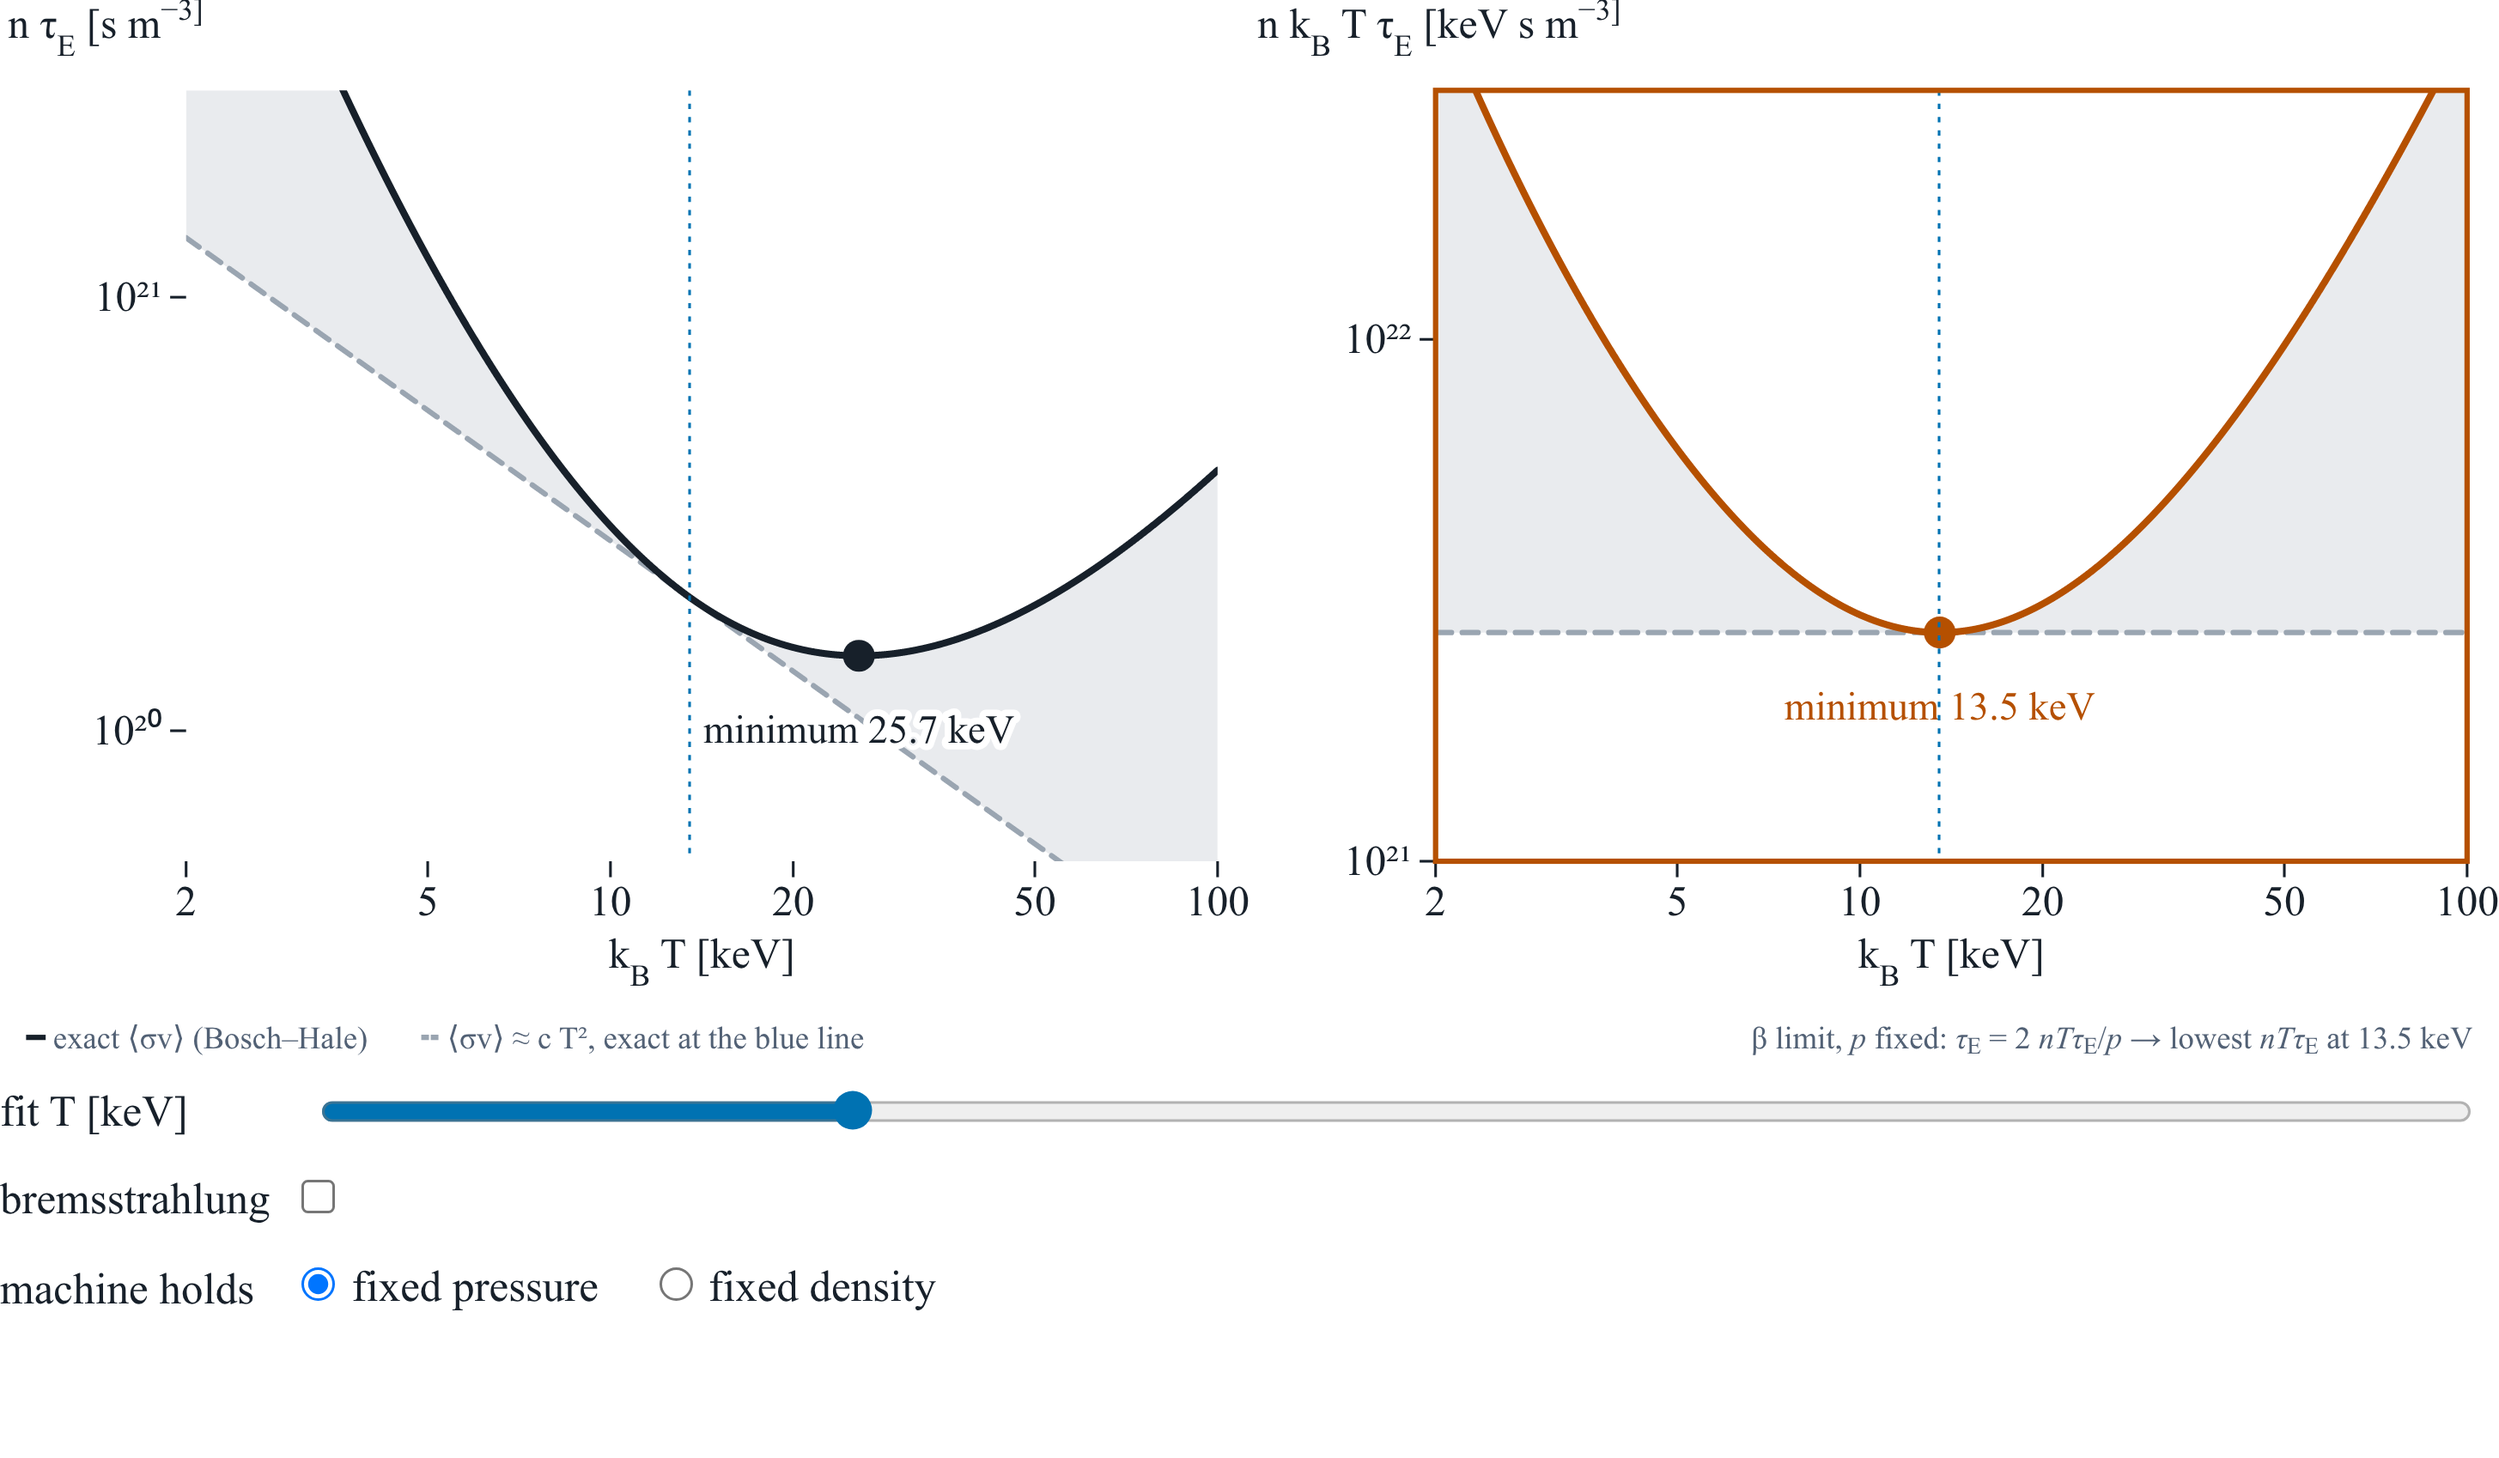
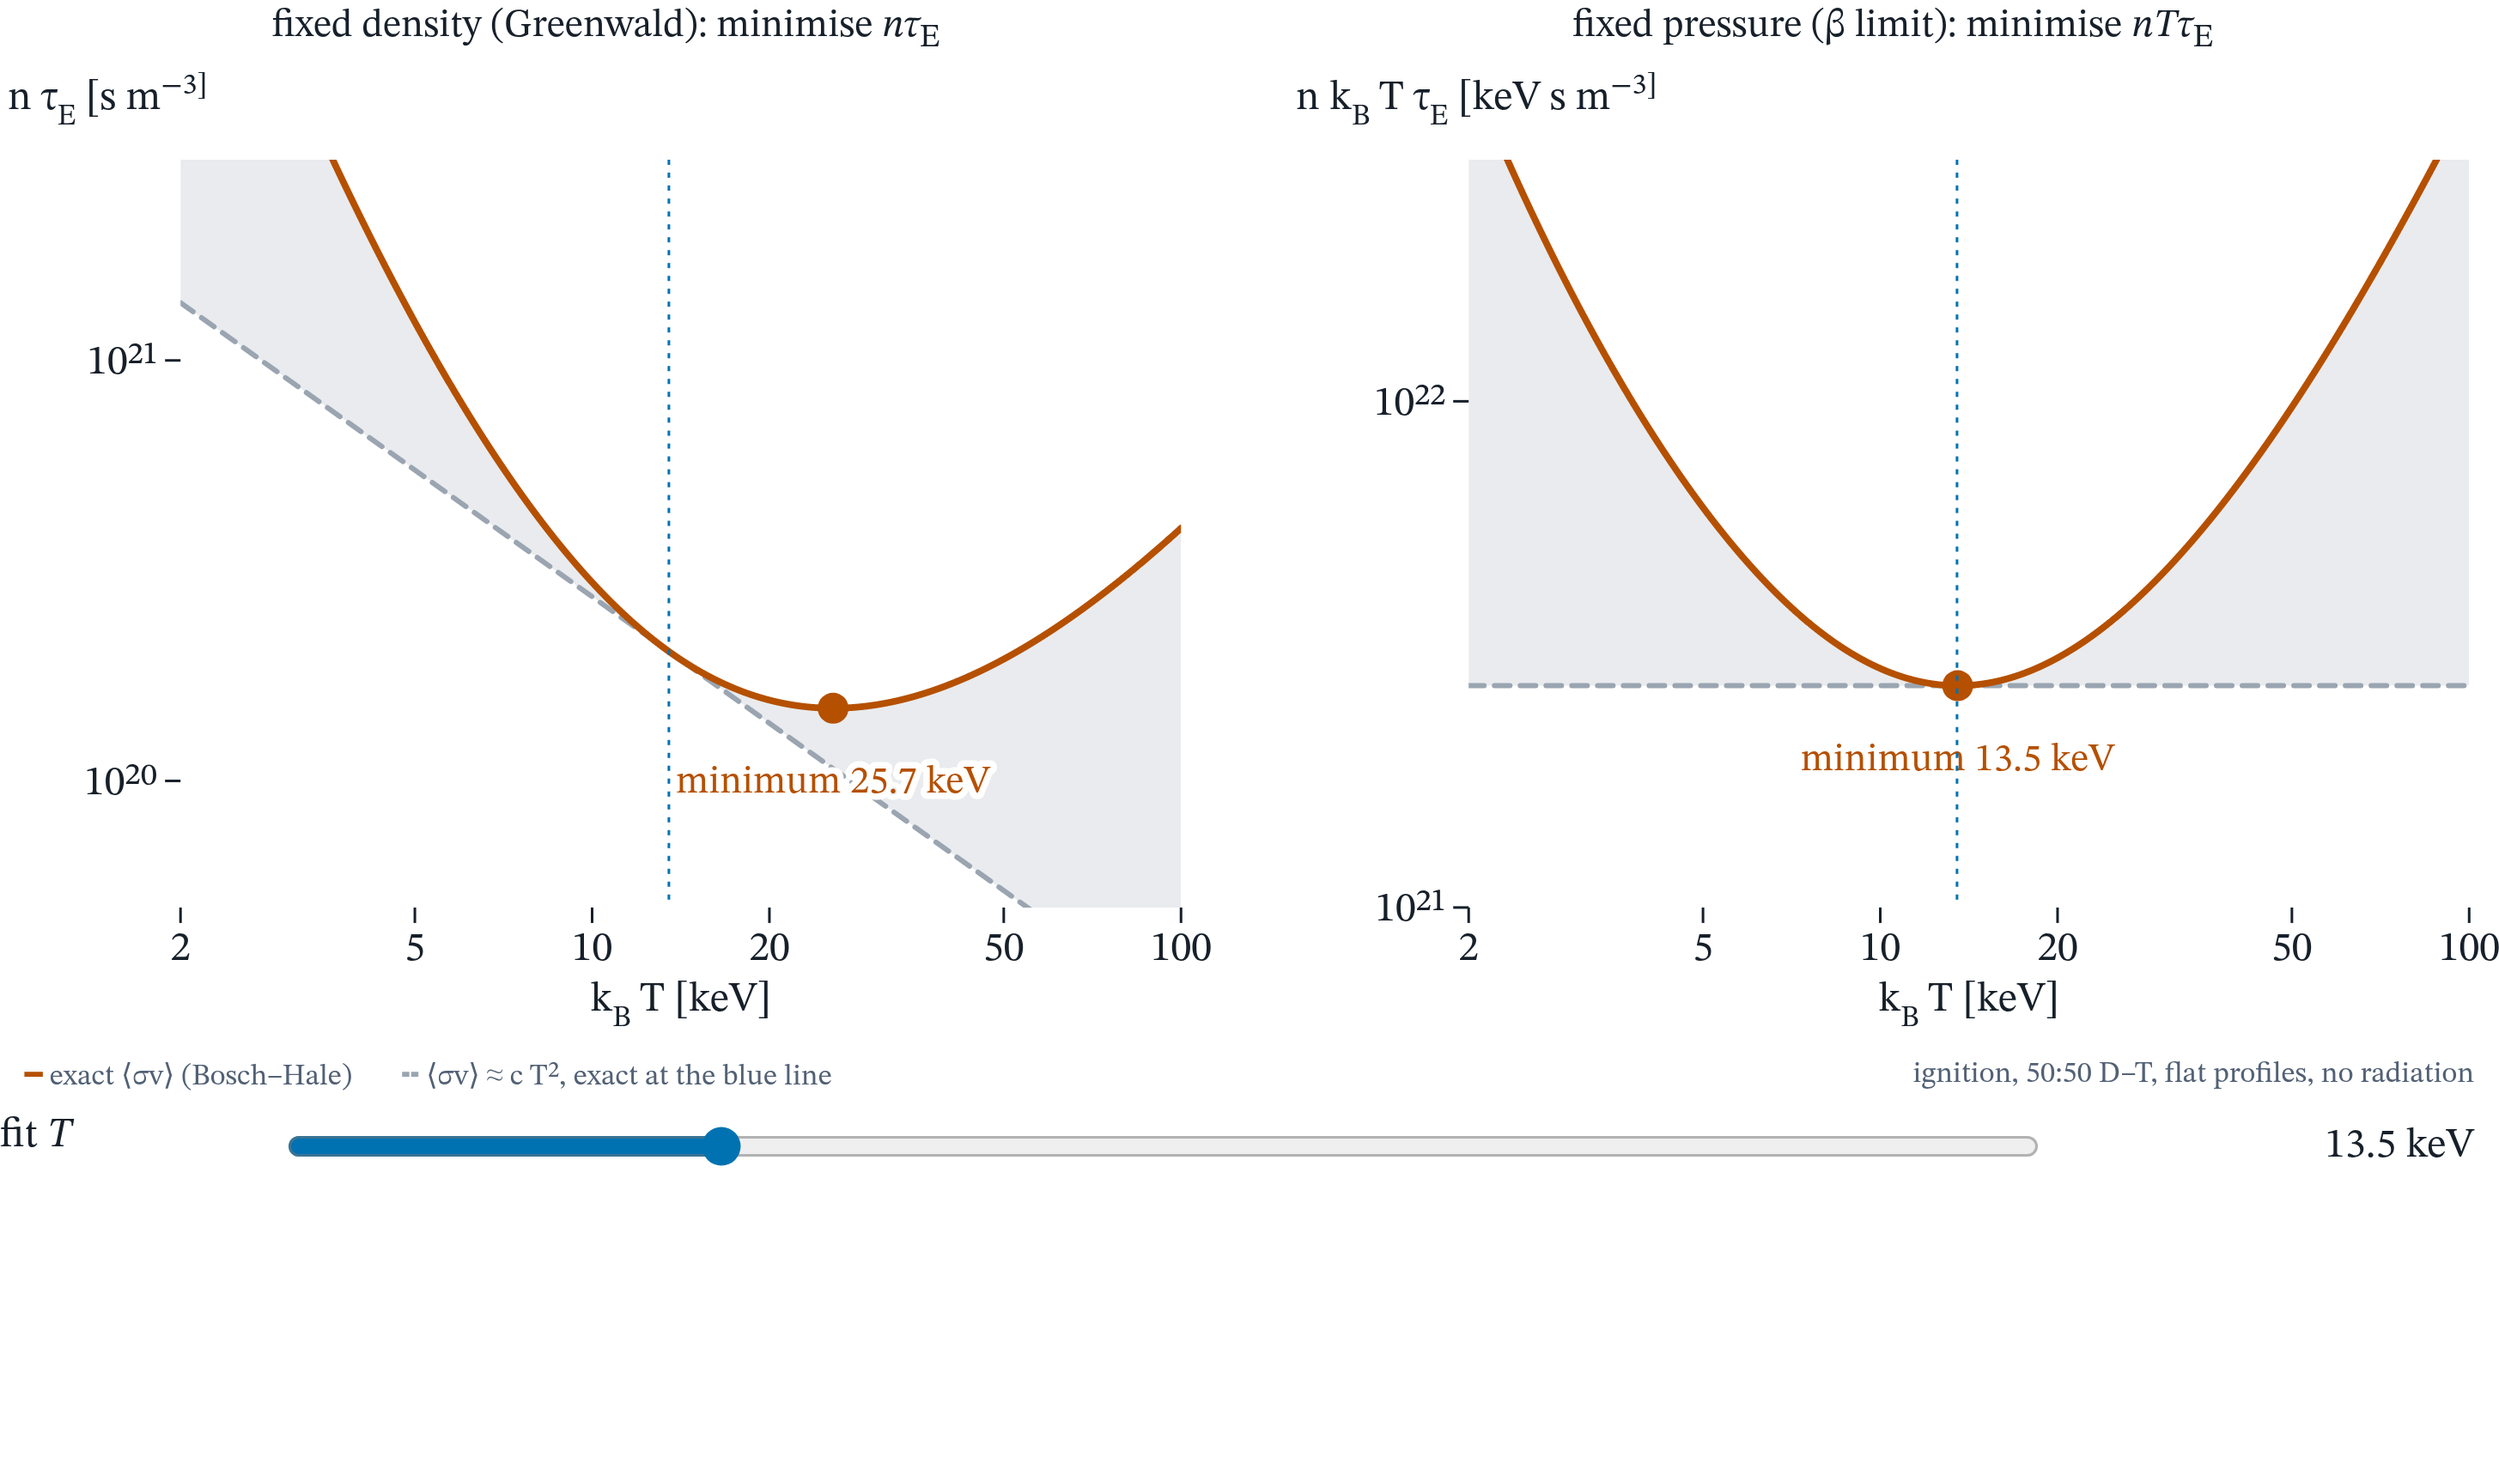
Lawson widget: one panel per machine limit, only the fit-temperature slider

diff --git a/notebooks/slide-lawson.html b/notebooks/slide-lawson.html
@@ -11,57 +11,53 @@
 <div id="figure"></div>
 <div id="inputs"></div>
 <script type="module">
-import {Plot, Inputs, d3, html, font, sub, pow, run} from "./widget.js";
+import {Plot, Inputs, d3, html, font, sub, pow, readout, run} from "./widget.js";
 import {reactivity, tripleProduct, E_ALPHA} from "./fusion.js";
 import {INK, GREY, BLUE, ORANGE} from "./plotting.js";
 import rx from "./data/reactivity.json" with {type: "json"};
 
-// Ignition, 50:50 D-T, flat profiles: n T tau_E = 12 T^2 / (<sigma v> E_alpha), optionally with bremsstrahlung.
+// Ignition, 50:50 D-T, flat profiles, no radiation: n T tau_E = 12 T^2 / (<sigma v> E_alpha).
 const grid = d3.range(0, 4001).map((i) => 2 * 50 ** (i / 4000));
 
-function draw({Tfit, brems, mode}) {
-  const zeff = brems ? 1 : 0;
+function draw({Tfit}, inputs) {
+  readout(inputs.Tfit, `${Tfit.toFixed(1)} keV`);
   // <sigma v> ~ c T^2, exact at the fit temperature: n T tau_E = 12 / (c E_alpha) is flat, n tau_E falls as 1/T.
   const c = reactivity(rx, "DT", Tfit) / Tfit ** 2;
   const flat = 12 / (c * E_ALPHA);
   const rows = grid.map((T) => {
-    const ntt = tripleProduct(rx, T, Infinity, zeff);
+    const ntt = tripleProduct(rx, T, Infinity, 0);
     return {T, ntt, nt: ntt / T, nttA: flat, ntA: flat / T};
   }).filter((r) => Number.isFinite(r.ntt));
   const best = (key) => rows.reduce((a, r) => (r[key] < a[key] ? r : a));
   const minNTT = best("ntt"), minNT = best("nt");
-  const panel = (key, keyA, label, dom, ticks, active) => sub(Plot.plot({
+  const panel = (key, keyA, label, dom, ticks) => sub(Plot.plot({
     width: 470, height: 380, marginLeft: 70, marginRight: 12, marginTop: 34, marginBottom: 56, style: font, clip: true,
     x: {type: "log", domain: [2, 100], label: "k_B T [keV]", ticks: [2, 5, 10, 20, 50, 100], tickFormat: String, labelArrow: "none", labelAnchor: "center", labelOffset: 40},
     y: {type: "log", domain: dom, label, ticks, tickFormat: pow, labelArrow: "none"},
     marks: [
       Plot.areaY(rows, {x: "T", y1: (r) => Math.min(r[key], dom[1]), y2: (r) => Math.min(r[keyA], dom[1]), fill: GREY, fillOpacity: 0.22}),
       Plot.line(rows, {x: "T", y: keyA, stroke: GREY, strokeWidth: 2, strokeDasharray: "6,4"}),
-      Plot.line(rows, {x: "T", y: key, stroke: active ? ORANGE : INK, strokeWidth: 2.6}),
-      Plot.dot([key === "ntt" ? minNTT : minNT], {x: "T", y: key, r: 6, fill: active ? ORANGE : INK}),
-      Plot.text([key === "ntt" ? minNTT : minNT], {x: "T", y: key, dy: 28, fill: active ? ORANGE : INK, stroke: "white", strokeWidth: 5, paintOrder: "stroke", fontSize: 15,
+      Plot.line(rows, {x: "T", y: key, stroke: ORANGE, strokeWidth: 2.6}),
+      Plot.dot([key === "ntt" ? minNTT : minNT], {x: "T", y: key, r: 6, fill: ORANGE}),
+      Plot.text([key === "ntt" ? minNTT : minNT], {x: "T", y: key, dy: 28, fill: ORANGE, stroke: "white", strokeWidth: 5, paintOrder: "stroke", fontSize: 15,
         text: (r) => `minimum ${r.T.toFixed(1)} keV`}),
       Plot.ruleX([Tfit], {stroke: BLUE, strokeDasharray: "2,3"}),
-      Plot.frame({stroke: active ? ORANGE : "transparent", strokeWidth: 2}),
     ],
   }));
+  const head = (text) => html`<div style="font-size:0.95rem;margin:0 0 0.3rem 0;text-align:center;color:${INK}">${text}</div>`;
   return html`<div><div style="display:flex;justify-content:space-between">
-  ${panel("nt", "ntA", "n τ_E [s m^−3]", [5e19, 3e21], [1e20, 1e21], mode === "fixed density")}
-  ${panel("ntt", "nttA", "n k_B T τ_E [keV s m^−3]", [1e21, 3e22], [1e21, 1e22], mode === "fixed pressure")}
+  <div style="width:48.5%">${head(html`fixed density (Greenwald): minimise <i>nτ</i><sub>E</sub>`)}${panel("nt", "ntA", "n τ_E [s m^−3]", [5e19, 3e21], [1e20, 1e21])}</div>
+  <div style="width:48.5%">${head(html`fixed pressure (β limit): minimise <i>nTτ</i><sub>E</sub>`)}${panel("ntt", "nttA", "n k_B T τ_E [keV s m^−3]", [1e21, 3e22], [1e21, 1e22])}</div>
 </div>
 <div style="display:flex;gap:1.2rem;font-size:0.72rem;margin:0.1rem 0.6rem;color:#526175">
-<span><span style="color:#17202A">━</span> exact ⟨σv⟩ (Bosch–Hale)</span>
+<span><span style="color:#B55000">━</span> exact ⟨σv⟩ (Bosch–Hale)</span>
 <span><span style="color:#9AA5B1">╍</span> ⟨σv⟩ ≈ c T², exact at the blue line</span>
-<span style="margin-left:auto">${mode === "fixed pressure"
-  ? html`β limit, <i>p</i> fixed: <i>τ</i><sub>E</sub> = 2 <i>nTτ</i><sub>E</sub>/<i>p</i> → lowest <i>nTτ</i><sub>E</sub> at ${minNTT.T.toFixed(1)} keV`
-  : html`density limit, <i>n</i> fixed: <i>τ</i><sub>E</sub> = <i>nτ</i><sub>E</sub>/<i>n</i> → lowest <i>nτ</i><sub>E</sub> at ${minNT.T.toFixed(1)} keV`}</span>
+<span style="margin-left:auto">ignition, 50:50 D–T, flat profiles, no radiation</span>
 </div></div>`;
 }
 
 run({
-  Tfit: Inputs.range([5, 40], {value: 13.5, step: 0.5, label: "fit T [keV]"}),
-  brems: Inputs.toggle({label: "bremsstrahlung", value: false}),
-  mode: Inputs.radio(["fixed pressure", "fixed density"], {value: "fixed pressure", label: "machine holds"}),
+  Tfit: Inputs.range([5, 40], {value: 13.5, step: 0.5, label: html`fit <i>T</i>`}),
 }, draw);
 </script>
 </body>

diff --git a/notebooks/slide-widget.css b/notebooks/slide-widget.css
@@ -7,7 +7,7 @@ body { margin: 0; padding: 0; color: #17202A; background: #fff; font-family: "ST
 #figure svg { display: block; width: 100% !important; height: auto !important; max-width: none !important; }
 .readout { position: absolute; top: 0.2rem; right: 0.6rem; font-size: 1rem; }
 .readout.warn { color: #B55000; }
-form[class^="inputs-"] { display: flex; align-items: center; --label-width: 6.5rem; width: 100%; font: inherit; font-size: 1rem; margin: 0.55rem 0; padding: 0 0.6rem 0 0; box-sizing: border-box; }
+form[class^="inputs-"] { display: flex; align-items: center; --label-width: 6.5rem; width: 100%; font: inherit; font-size: 1rem; margin: 0.4rem 0; padding: 0 0.6rem 0 0; box-sizing: border-box; }
 form[class^="inputs-"] label { font: inherit; }
 form[class^="inputs-"] input[type="number"] { display: none; }
 form[class^="inputs-"] output { width: 9.5rem; flex-shrink: 0; text-align: right; font-variant-numeric: tabular-nums; }
@@ -18,3 +18,5 @@ form[class^="inputs-"] { width: 100% !important; max-width: none !important; }
 form[class^="inputs-"] > div { width: auto !important; max-width: none !important; }
 form[class^="inputs-"] > label { width: var(--label-width) !important; flex-shrink: 0; }
 .legend > span:not(:last-child) { white-space: nowrap; }
+form[class^="inputs-"] input[type="range"] { margin: 0; }
+form[class^="inputs-"], form[class^="inputs-"] label { line-height: 1.15; min-height: 0; padding-top: 0; padding-bottom: 0; }

diff --git a/slides/04-power-balance.md b/slides/04-power-balance.md
@@ -38,7 +38,7 @@ P_heat or P_aux (older decks) are not used.
 | 6 | 4.4 Power balance with gain (`alpha_fraction`) | One balance, P_ext + P_α = P_loss, with P_ext = P_fus/Q gives every Q curve. Table: breakeven Q = 1 (f_α = 1/6), burning plasma Q = 5 (alphas supply half the heating), ignition Q → ∞. Plot: f_α saturates; at Q = 10 the alphas already supply two thirds of the heating. |
 | 7 | Triple product | Board first (ignition balance → n τ_E = 12 k_BT/(⟨σv⟩E_α), times T). ⟨σv⟩ ∝ T² near 10–20 keV makes n T τ_E constant: ≈ 3·10²¹ keV s m⁻³ (exact minimum 2.7·10²¹ at 13.5 keV) = 4.8 bar s with the ion pressure n k_BT, ≈ 10 bar s with the full pressure p = 2n k_BT. The Q-dependence is on the Lawson plane, not on this page. |
 | 8 | How good is ⟨σv⟩ ≈ cT²? (`reactivity`, shared with 2.20) | Before the widget: left ⟨σv⟩(T) for D–T, D–D, D–³He, p–¹¹B; right ⟨σv⟩/(cT²) with c the maximum of ⟨σv⟩/T² for each fuel, grey band ±20 %. Within 20 %: D–T 8–23 keV (peak 13.5), D–D 7.5–36 (16), D–³He 36–94 (59), p–¹¹B 91–218 (140). So n T τ_E ≈ const is a D–T statement near 10–20 keV; each fuel has its own window. Our D–D curve sits 6–12 % above Bosch–Hale (fit offset); does not change the window. |
-| 9 | Widget `lawson`: n τ_E or n T τ_E? | Same ignition balance, two figures of merit. Left n τ_E(T), right n k_BT τ_E(T); solid exact Bosch–Hale, dashed ⟨σv⟩ ≈ cT² fitted at the slider temperature (default 13.5 keV). In the approximation n T τ_E is flat and n τ_E falls as 1/T (slope −1, no minimum); the shaded gap is the error: ±12 % for 8–20 keV, factor 2 at 5 keV, 0.67 at 30 keV. Minima: n T τ_E at 13.5 keV, n τ_E at 25.7 keV (only because ⟨σv⟩ drops below T² above 20 keV); with bremsstrahlung 14.2 and 26.0 keV. "Machine holds": fixed pressure (β limit) → τ_E = 2 nTτ_E/p, minimise the triple product; fixed density (Greenwald) → τ_E = nτ_E/n, minimise n τ_E. At 25.7 keV the triple product is 39 % above its minimum; at 13.5 keV n τ_E is 36 % above its. Max P_fus at fixed n is at 66.7 keV, spoken. |
+| 9 | Widget `lawson`: n τ_E or n T τ_E? | Same ignition balance, two figures of merit, one panel per machine limit. Left, fixed density (Greenwald, τ_E = nτ_E/n): minimise n τ_E, minimum 25.7 keV. Right, fixed pressure (β limit, τ_E = 2 nTτ_E/p): minimise n T τ_E, minimum 13.5 keV. Solid exact Bosch–Hale, dashed ⟨σv⟩ ≈ cT² exact at the "fit T" slider (default 13.5 keV): in the approximation n T τ_E is flat and n τ_E falls as 1/T (slope −1, no minimum); the shaded gap is the error, ±12 % for 8–20 keV, factor 2 at 5 keV, 0.67 at 30 keV. The 25.7 keV minimum exists only because ⟨σv⟩ drops below T² above 20 keV. Spoken: bremsstrahlung moves the minima only to 14.2 and 26.0 keV; at 25.7 keV the triple product is 39 % above its minimum, at 13.5 keV n τ_E is 36 % above its; max P_fus at fixed n is at 66.7 keV. Switches for bremsstrahlung and "machine holds" removed 2026-11-09 (redundant). |
 | 10 | Lawson plane (`lawson_plane`) | Minimum near 14 keV for every Q; bremsstrahlung wall at 4.3 keV; right panel: Q = 10 already needs two thirds of the ignition value. |
 | 11 | 4.5 Lawson 1957 and self-heating | Same balance, two closures. Lawson: all output (fusion, bremsstrahlung, heat) through a converter with η = 1/3 and back as heating; useful when P_fus ≥ 2P_loss. Self-heating: the alphas stay inside, neutrons leave; ignition is P_α ≥ P_loss. The triple product is not "Lawson's criterion" in its 1957 form (2025 notebook). **Bank account** for Lawson's break-even, if time. Neutrons take the long path wall → turbine → heater: inefficient twice. Spoken, no page: with η_th = η_aux = 0.4, Q_eng = η_th η_aux (Q + 1) − 1, so net electricity needs Q > 5.25 and Q ≈ 10 gives Q_eng ≈ 1. |
 | 12 | 4.6 Fixed pressure (`fixed_pressure`) | Pressure, not density, is what the magnet holds: p = 2nk_BT, so p_fus ∝ p²⟨σv⟩/T² — the 13.5 keV optimum of section 2.20 is a fixed-pressure optimum. With β: P_fus ∝ β²B⁴V, doubling B gives 16 times the power density. Density limit as one line (Greenwald, empirical); scaling laws come with transport. |
